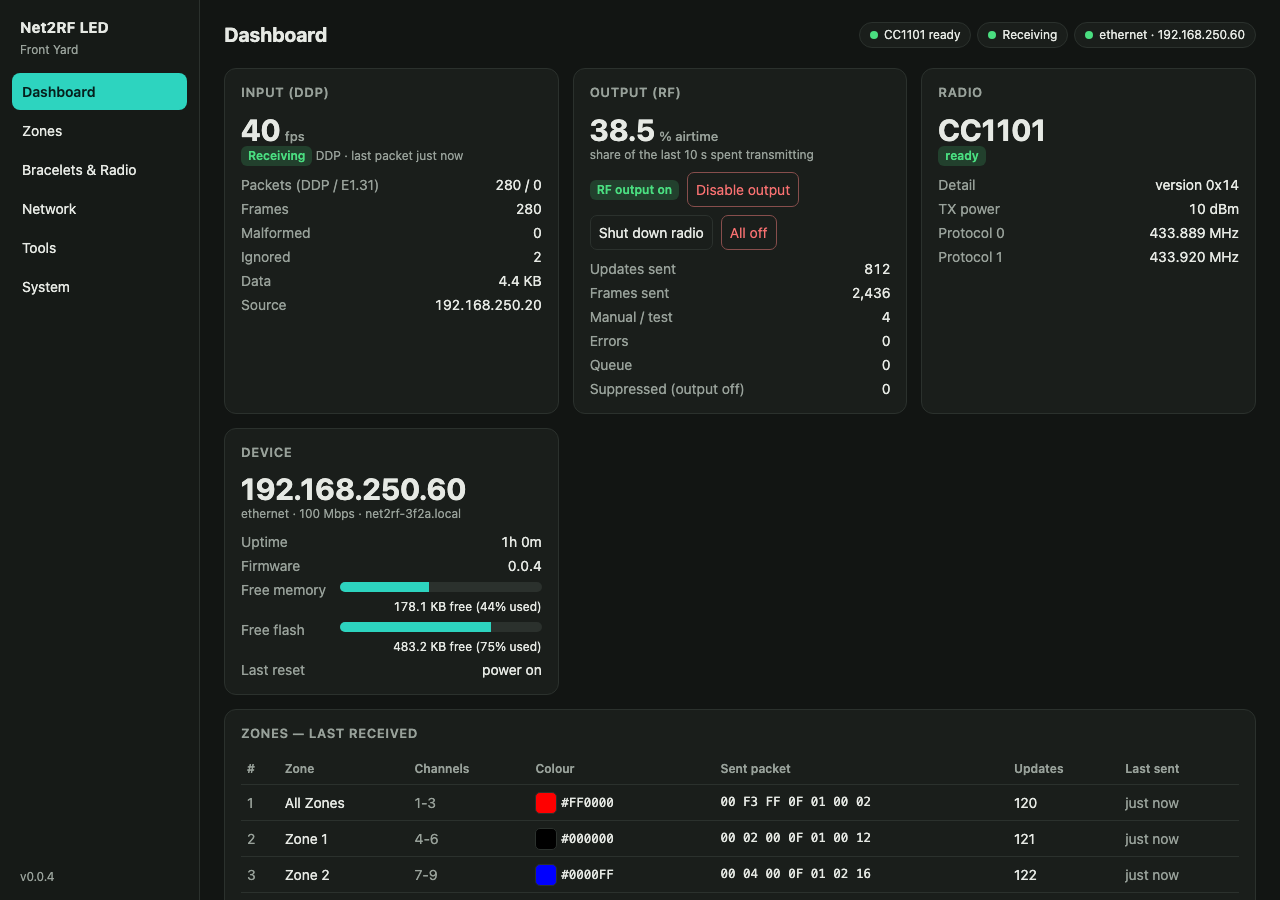
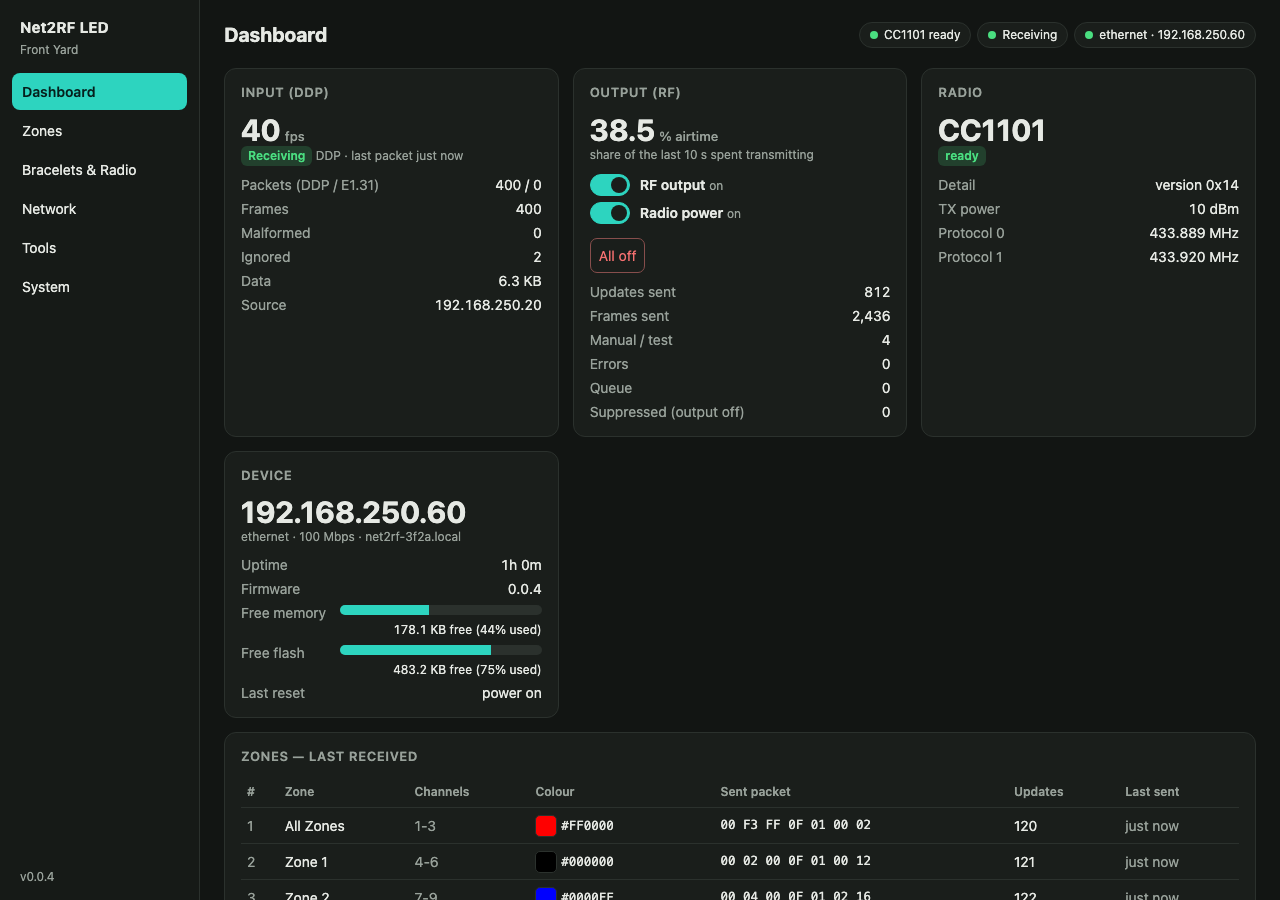
Dashboard: RF output and radio power are toggle switches
Replaces the Disable output / Shut down radio buttons. Switching either off
still asks for confirmation; cancelling leaves the switch on.

diff --git a/web/index.html b/web/index.html
@@ -64,6 +64,11 @@ button:disabled{opacity:.5;cursor:default}
 .note{border-left:3px solid var(--warn);padding:6px 10px;background:color-mix(in srgb,var(--warn) 8%,transparent);border-radius:0 6px 6px 0;margin:8px 0;font-size:13px}
 pre{background:var(--field);border:1px solid var(--rule);border-radius:8px;padding:10px 12px;overflow-x:auto;margin:0;font-size:12.5px}
 progress{width:100%;height:10px}
+.tog{display:flex;align-items:center;gap:10px;cursor:pointer;margin:6px 0}.tog input{position:absolute;opacity:0;width:0;height:0}
+.tog i{flex:none;position:relative;width:40px;height:22px;border-radius:11px;background:var(--rule);border:1px solid var(--rule);transition:background .15s}
+.tog i::after{content:'';position:absolute;top:2px;left:2px;width:16px;height:16px;border-radius:50%;background:var(--dim);transition:transform .15s,background .15s}
+.tog input:checked+i{background:var(--accent);border-color:var(--accent)}.tog input:checked+i::after{transform:translateX(18px);background:var(--panel)}
+.tog input:focus-visible+i{outline:2px solid var(--accent);outline-offset:2px}.tog b{font-weight:600}.tog .dim{font-weight:400}
 details.adv>summary{cursor:pointer;font-weight:600;color:var(--dim)}details.adv[open]>summary{color:var(--ink)}
 .util{height:10px;border-radius:5px;overflow:hidden;background:var(--rule);margin:3px 0}.util>i{display:block;height:100%;background:var(--accent)}.util.warn>i{background:var(--warn)}.util.bad>i{background:var(--bad)}
 .hide{display:none!important}
@@ -116,8 +121,9 @@ details.adv>summary{cursor:pointer;font-weight:600;color:var(--dim)}details.adv[
       <div class="card"><h2>Output (RF)</h2>
         <div class="big" id="d_air">–<span class="unit">% airtime</span></div>
         <div class="small dim">share of the last 10 s spent transmitting</div>
-        <div class="actions" style="margin-top:8px"><span id="d_outState"></span><button id="d_outToggle"></button><button id="d_radioToggle" title="Put the radio chip to sleep to save power, or wake it"></button>
-          <button class="danger" id="d_allOff" title="Send off to every bracelet in range">All off</button></div>
+        <label class="tog" style="margin-top:10px" title="Off: show data is still received and counted, but nothing is transmitted"><input type="checkbox" id="d_outSw" role="switch"><i></i><span><b>RF output</b> <span class="dim small" id="d_outState"></span></span></label>
+        <label class="tog" title="Off: the radio chip is put to sleep to save power"><input type="checkbox" id="d_radioSw" role="switch"><i></i><span><b>Radio power</b> <span class="dim small" id="d_radioSwState"></span></span></label>
+        <div class="actions"><button class="danger" id="d_allOff" title="Send off to every bracelet in range">All off</button></div>
         <dl class="kv">
           <dt>Updates sent</dt><dd id="d_up">–</dd><dt>Frames sent</dt><dd id="d_tf">–</dd>
           <dt>Manual / test</dt><dd id="d_man">–</dd><dt>Errors</dt><dd id="d_err">–</dd>
@@ -442,10 +448,9 @@ function render(){const ap=S.network.interface==='ap';$('cnaNote').classList.tog
     `In xLights, open this controller and <b>untick "Keep Channel Numbers"</b> (DDP), or check the E1.31 universe / start channel.`;$('d_bytes').textContent=fmtBytes(i.bytes);$('d_src').textContent=i.source||'–';
   $('d_air').innerHTML=o.airtime_pct+'<span class="unit">% airtime</span>';
   $('d_up').textContent=fmtN(o.updates);$('d_tf').textContent=fmtN(o.frames);$('d_man').textContent=fmtN(o.manual);$('d_err').textContent=fmtN(o.errors);$('d_q').textContent=r.queue;$('d_sup').textContent=fmtN(o.suppressed);
-  $('d_outState').innerHTML=o.enabled?'<span class="badge good">RF output on</span>':'<span class="badge bad">RF output off</span> <span class="dim small">DDP is consumed, nothing is sent</span>';
-  $('d_outToggle').textContent=o.enabled?'Disable output':'Enable output';$('d_outToggle').className=o.enabled?'danger':'primary';
-  if(r.power===false)$('d_outState').innerHTML='<span class="badge bad">Radio shut down</span> <span class="dim small">nothing is sent until it is powered on</span>';
-  $('d_radioToggle').textContent=r.power===false?'Power radio on':'Shut down radio';$('d_radioToggle').className=r.power===false?'primary':'';
+  const pw=r.power!==false;if(!swBusy){$('d_outSw').checked=o.enabled;$('d_radioSw').checked=pw}
+  $('d_outState').textContent=o.enabled?(pw?'on':'on, but the radio is shut down'):'off: show data is received, nothing is sent';
+  $('d_radioSwState').textContent=pw?'on':'shut down: nothing is sent until it is switched on';
   $('d_radio').textContent=r.name;$('d_radioState').innerHTML=`<span class="badge ${rc}">${rt}</span>`;
   $('d_rdet').textContent=r.detail||'–';
   if(C){const a=C.app.radio;$('d_pw').textContent=Math.max(r.min_power,Math.min(r.max_power,a.tx_power))+' dBm';
@@ -704,12 +709,13 @@ setInterval(()=>{if(location.hash===''||location.hash==='#dashboard')pollPeers()
 $('d_allOff').onclick=async()=>{
   await api('all-off',{});poll();
   toast(C&&C.app.bracelets.protocol==1?'All off sent to every group. Bracelets stay off until xLights changes a colour.':'Off sent to every zone. Bracelets stay off until xLights changes a colour.',4500)};
-$('d_outToggle').onclick=async()=>{const on=!S.engine.output.enabled;
-  if(!on&&!await ask('Stop all RF transmission? DDP will be received but ignored until output is re-enabled.'))return;
-  await api('output',{enabled:on});toast(on?'RF output enabled':'RF output disabled');poll()};
-$('d_radioToggle').onclick=async()=>{const on=S.engine.radio.power===false;
-  if(!on&&!await ask('Shut down the radio chip? Nothing is transmitted until you power it on again. This setting survives a reboot.'))return;
-  await api('radio',{power:on});toast(on?'Radio powered on':'Radio shut down');poll()};
+// The switches follow the controller's state; while one is being changed (confirmation open, request in
+// flight) the 1 s poll must not flip it back.
+let swBusy=false;
+async function swChange(el,off,path,body,done){swBusy=true;const on=el.checked;
+  try{if(!on&&!await ask(off)){el.checked=true;return}await api(path,body(on));toast(done(on))}catch(e){el.checked=!on}finally{swBusy=false;poll()}}
+$('d_outSw').onchange=e=>swChange(e.target,'Stop all RF transmission? Show data will be received but ignored until output is switched back on.','output',on=>({enabled:on}),on=>on?'RF output on':'RF output off');
+$('d_radioSw').onchange=e=>swChange(e.target,'Shut down the radio chip? Nothing is transmitted until you switch it on again. This setting survives a reboot.','radio',on=>({power:on}),on=>on?'Radio powered on':'Radio shut down');
 $('resetStats').onclick=()=>api('stats/reset',{}).then(()=>toast('Counters reset'));
 document.querySelectorAll('#testSeg button').forEach(b=>b.onclick=()=>api('test',{mode:b.dataset.m,rgb:$('testColor').value.slice(1)}).then(poll));
 $('testColor').oninput=()=>{if(S&&S.engine.test.mode==='solid')api('test',{mode:'solid',rgb:$('testColor').value.slice(1)})};

diff --git a/docs/USAGE.md b/docs/USAGE.md
@@ -45,7 +45,7 @@ For a show, give the controller a **static IP** or a DHCP reservation, so xLight
 
 | Page | What's there |
 |---|---|
-| **Dashboard** | Input rate and packet counters, RF airtime and counters, radio status, device info with free memory and flash; a notice when newer firmware is available; the last colour sent to each zone; other controllers on the network with their live state; **Test mode** (off, solid colour, or cycle R/G/B/W); **RF output on/off**, **Shut down radio** and **All off** |
+| **Dashboard** | Input rate and packet counters, RF airtime and counters, radio status, device info with free memory and flash; a notice when newer firmware is available; the last colour sent to each zone; other controllers on the network with their live state; **Test mode** (off, solid colour, or cycle R/G/B/W); the **RF output** and **Radio power** switches, and **All off** |
 | **Zones** | Add, name, enable and address zones; choose whether All Zones is a base layer under the others; send a colour, off, a fade in or a fade out to one zone; **Zone walk** lights one zone at a time so you can see which bracelets belong where |
 | **Bracelets & Radio** | Controller name, bracelet protocol, input mode (pixel / DMX / vendor), colour order and start channel; radio module, TX power, frequencies, frames per update, refresh, TX jitter, listen before transmit; DDP / E1.31 input and the input timeout |
 | **Network** | Current connection and the settings above |
@@ -63,9 +63,9 @@ The pill row at the top of every page shows the radio, input and network state a
 - **RF output off** stops all transmission while still receiving and counting the show data. Turning it back on
   re-sends the current colours. The radio already sits idle between updates, so this changes nothing on air
   beyond stopping the updates.
-- **Shut down radio** also puts the radio chip to sleep, to save a little power when the controller isn't in
-  use. Nothing is sent until you press **Power radio on**, which restarts the radio and re-sends the current
-  colours. The setting survives a reboot.
+- **Radio power off** also puts the radio chip to sleep, to save a little power when the controller isn't in
+  use. Nothing is sent until you switch it back on, which restarts the radio and re-sends the current colours.
+  The setting survives a reboot.
 - **All off** blanks every bracelet once. They stay dark until the show input changes a colour.
 - **Input timeout:** if no show data arrives for 5 minutes (configurable, or 0 for never), the bracelets are
   switched off.
